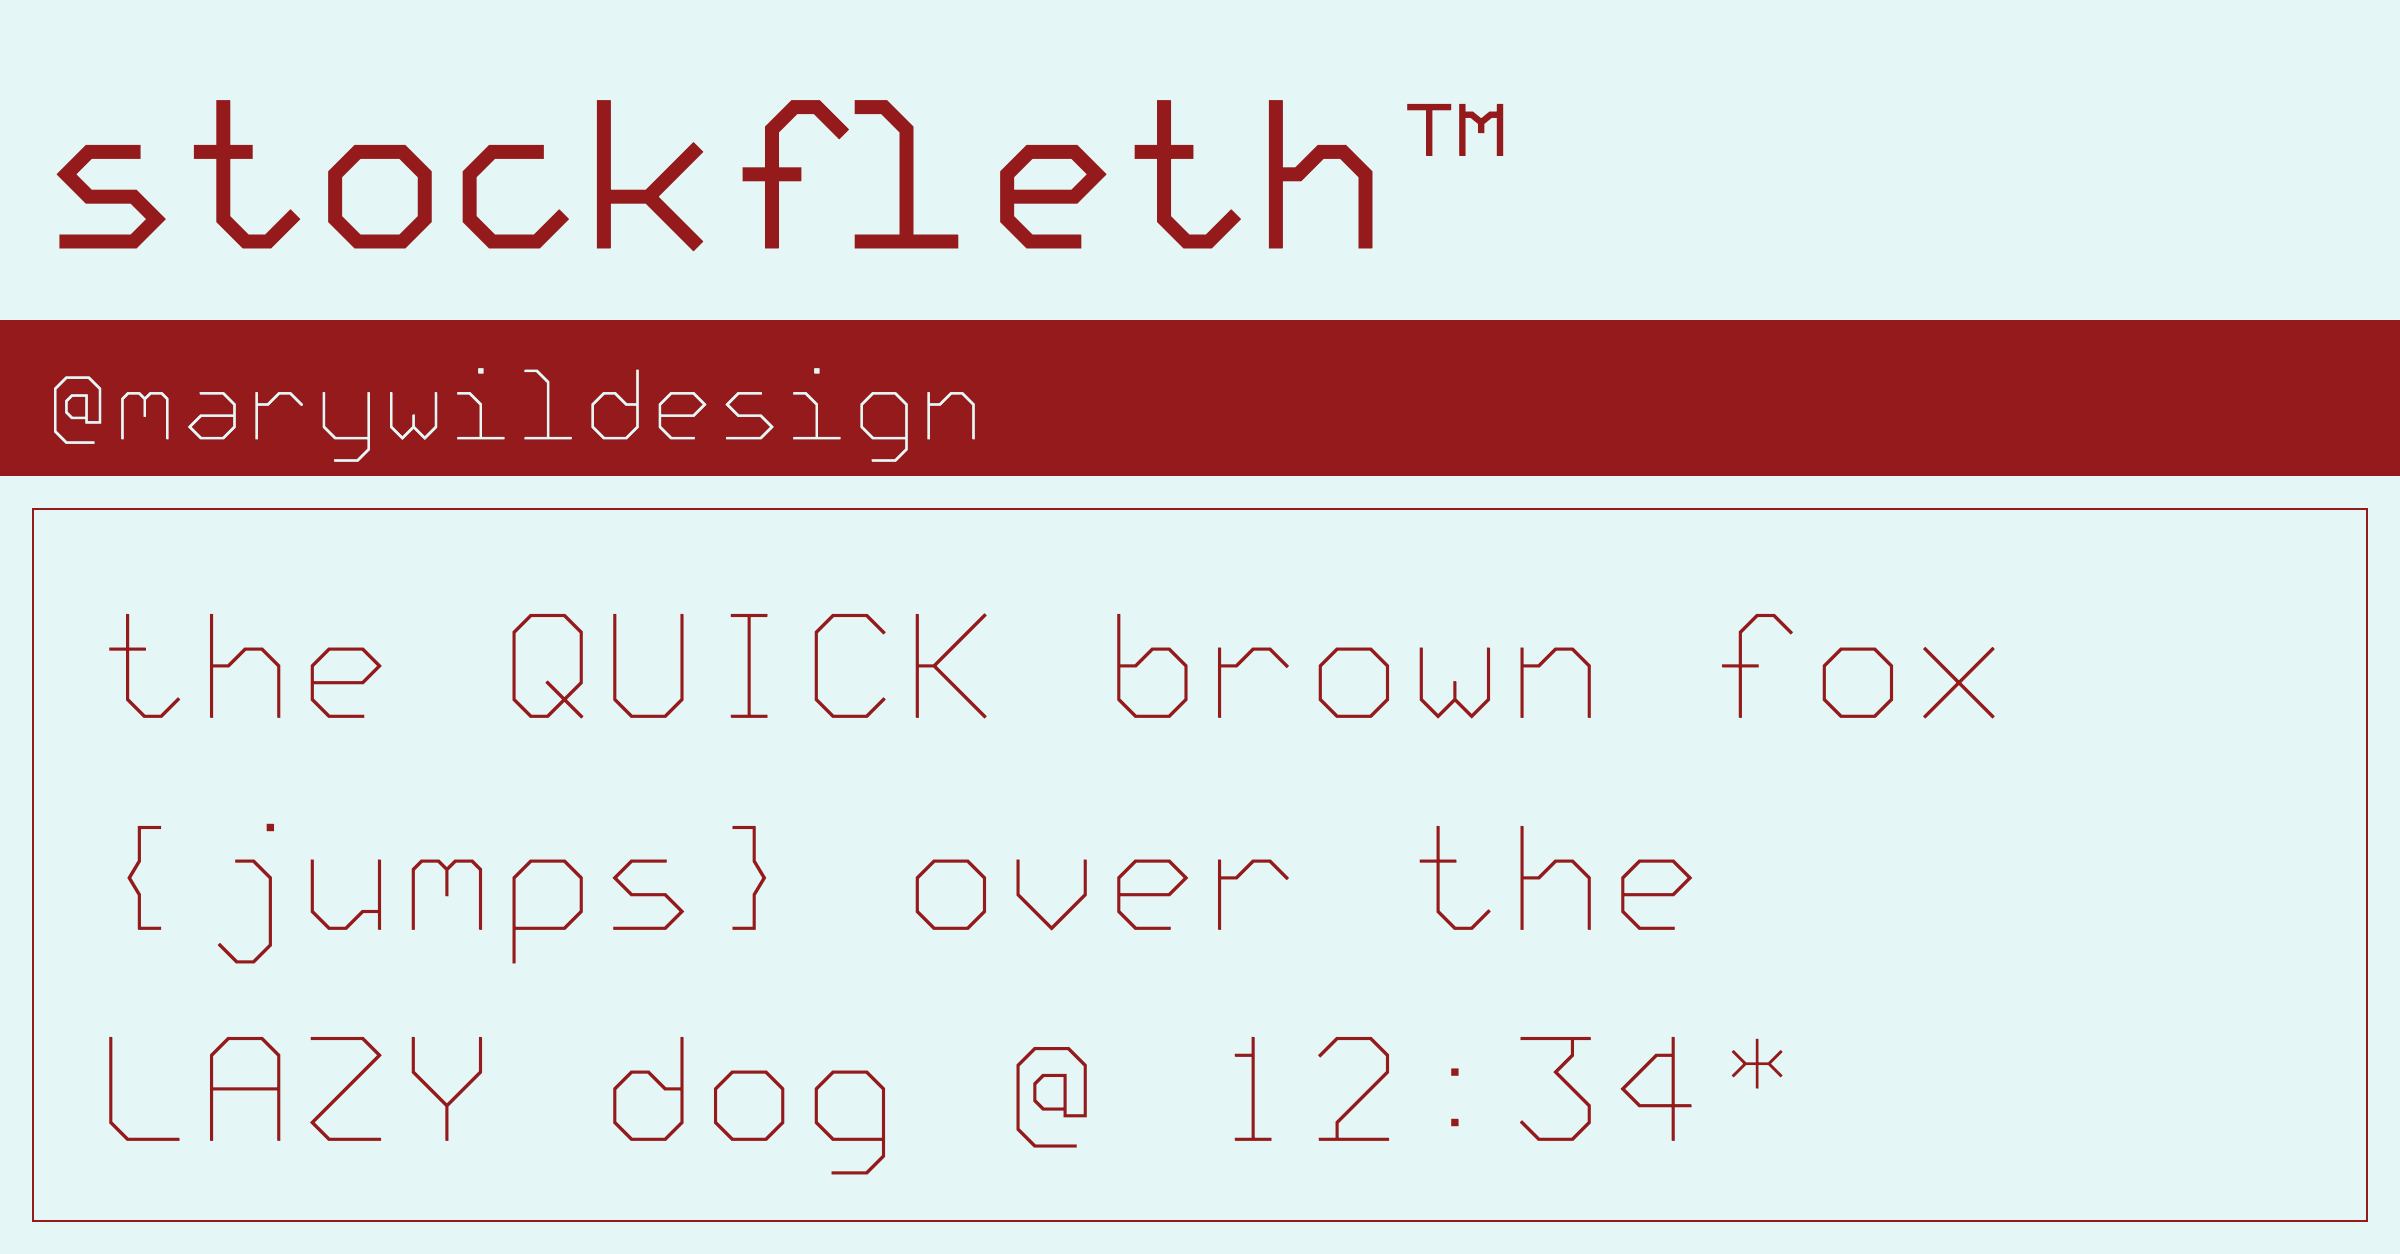
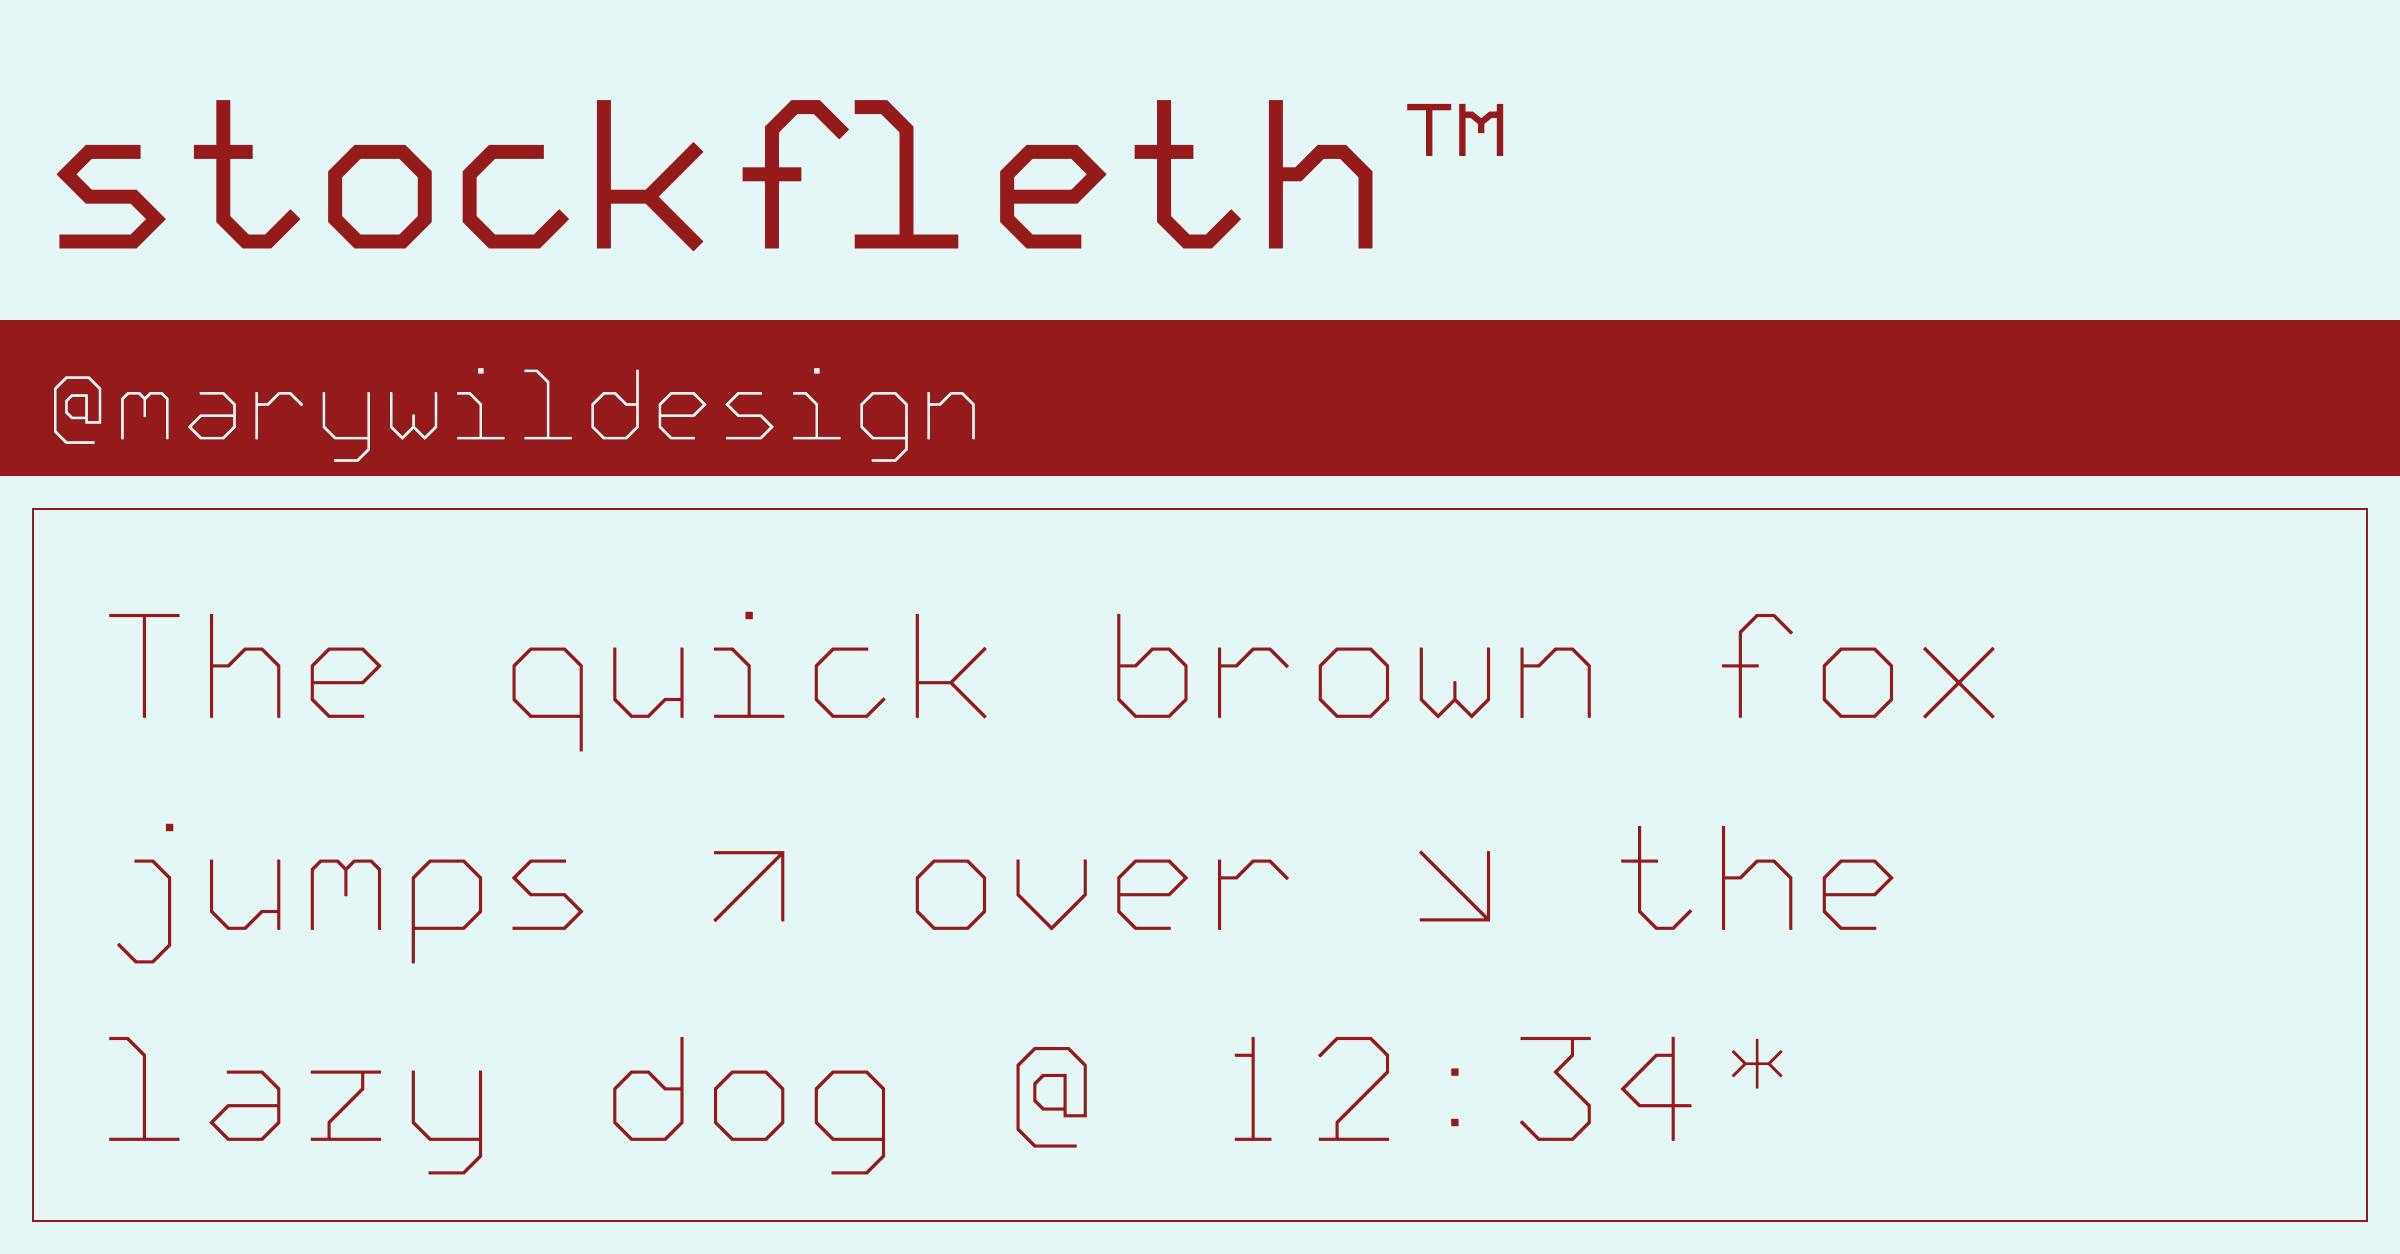
New sample sentence on the home page and link preview
The opening text and the link preview now read "The quick brown fox
jumps ↗ over ↘ the lazy dog @ 12:34*", showing off the arrows.

diff --git a/index.html b/index.html
@@ -12,16 +12,16 @@
 <meta property="og:title" content="stockfleth: variable mono font">
 <meta property="og:description" content="a mono font drawn line by line on a 5 × 9 grid. variable: weight, width, italic. fluent in european and latin-script sámi languages. by marywildesign.">
 <meta property="og:url" content="https://marywildesign.com/stockfleth/">
-<meta property="og:image" content="https://marywildesign.com/stockfleth/og-image.png?v=3">
-<meta property="og:image:secure_url" content="https://marywildesign.com/stockfleth/og-image.png?v=3">
+<meta property="og:image" content="https://marywildesign.com/stockfleth/og-image.png?v=4">
+<meta property="og:image:secure_url" content="https://marywildesign.com/stockfleth/og-image.png?v=4">
 <meta property="og:image:type" content="image/png">
 <meta property="og:image:width" content="2400">
 <meta property="og:image:height" content="1254">
-<meta property="og:image:alt" content="stockfleth in heavy type above a dark red band reading @marywildesign, then the QUICK brown fox {jumps} over the LAZY dog @ 12:34* in a thin box, dark red on pale aqua">
+<meta property="og:image:alt" content="stockfleth in heavy type above a dark red band reading @marywildesign, then The quick brown fox jumps ↗ over ↘ the lazy dog @ 12:34* in a thin box, dark red on pale aqua">
 <meta name="twitter:card" content="summary_large_image">
 <meta name="twitter:title" content="stockfleth: variable mono font">
 <meta name="twitter:description" content="a mono font drawn line by line on a 5 × 9 grid, by marywildesign.">
-<meta name="twitter:image" content="https://marywildesign.com/stockfleth/og-image.png?v=3">
+<meta name="twitter:image" content="https://marywildesign.com/stockfleth/og-image.png?v=4">
 <style>
 @font-face{font-family:Stockfleth;src:url(fonts/Stockfleth-VF.woff2) format("woff2"),url(fonts/Stockfleth-VF.ttf) format("truetype");font-weight:100 1000;font-stretch:70% 145%;font-style:normal;font-display:block}
 html.loading body{visibility:hidden}
@@ -212,7 +212,7 @@ const stage=$('stage');
 const fvs=(w,d)=>`"wght" ${w}, "wdth" ${d}, "slnt" ${-S.slnt}`;
 
 function makeLine(text){const d=document.createElement('div');d.className='line';d.textContent=text;return d}
-['the QUICK brown fox {jumps} over the LAZY dog @ 12:34*'].forEach(t=>stage.appendChild(makeLine(t)));
+['The quick brown fox jumps ↗ over ↘ the lazy dog @ 12:34*'].forEach(t=>stage.appendChild(makeLine(t)));
 
 /* the whole box is one editable area, so selections can span lines; each line is still its own
    block so it can be fitted. Keep every top-level child a div.line, preserving the caret. */
